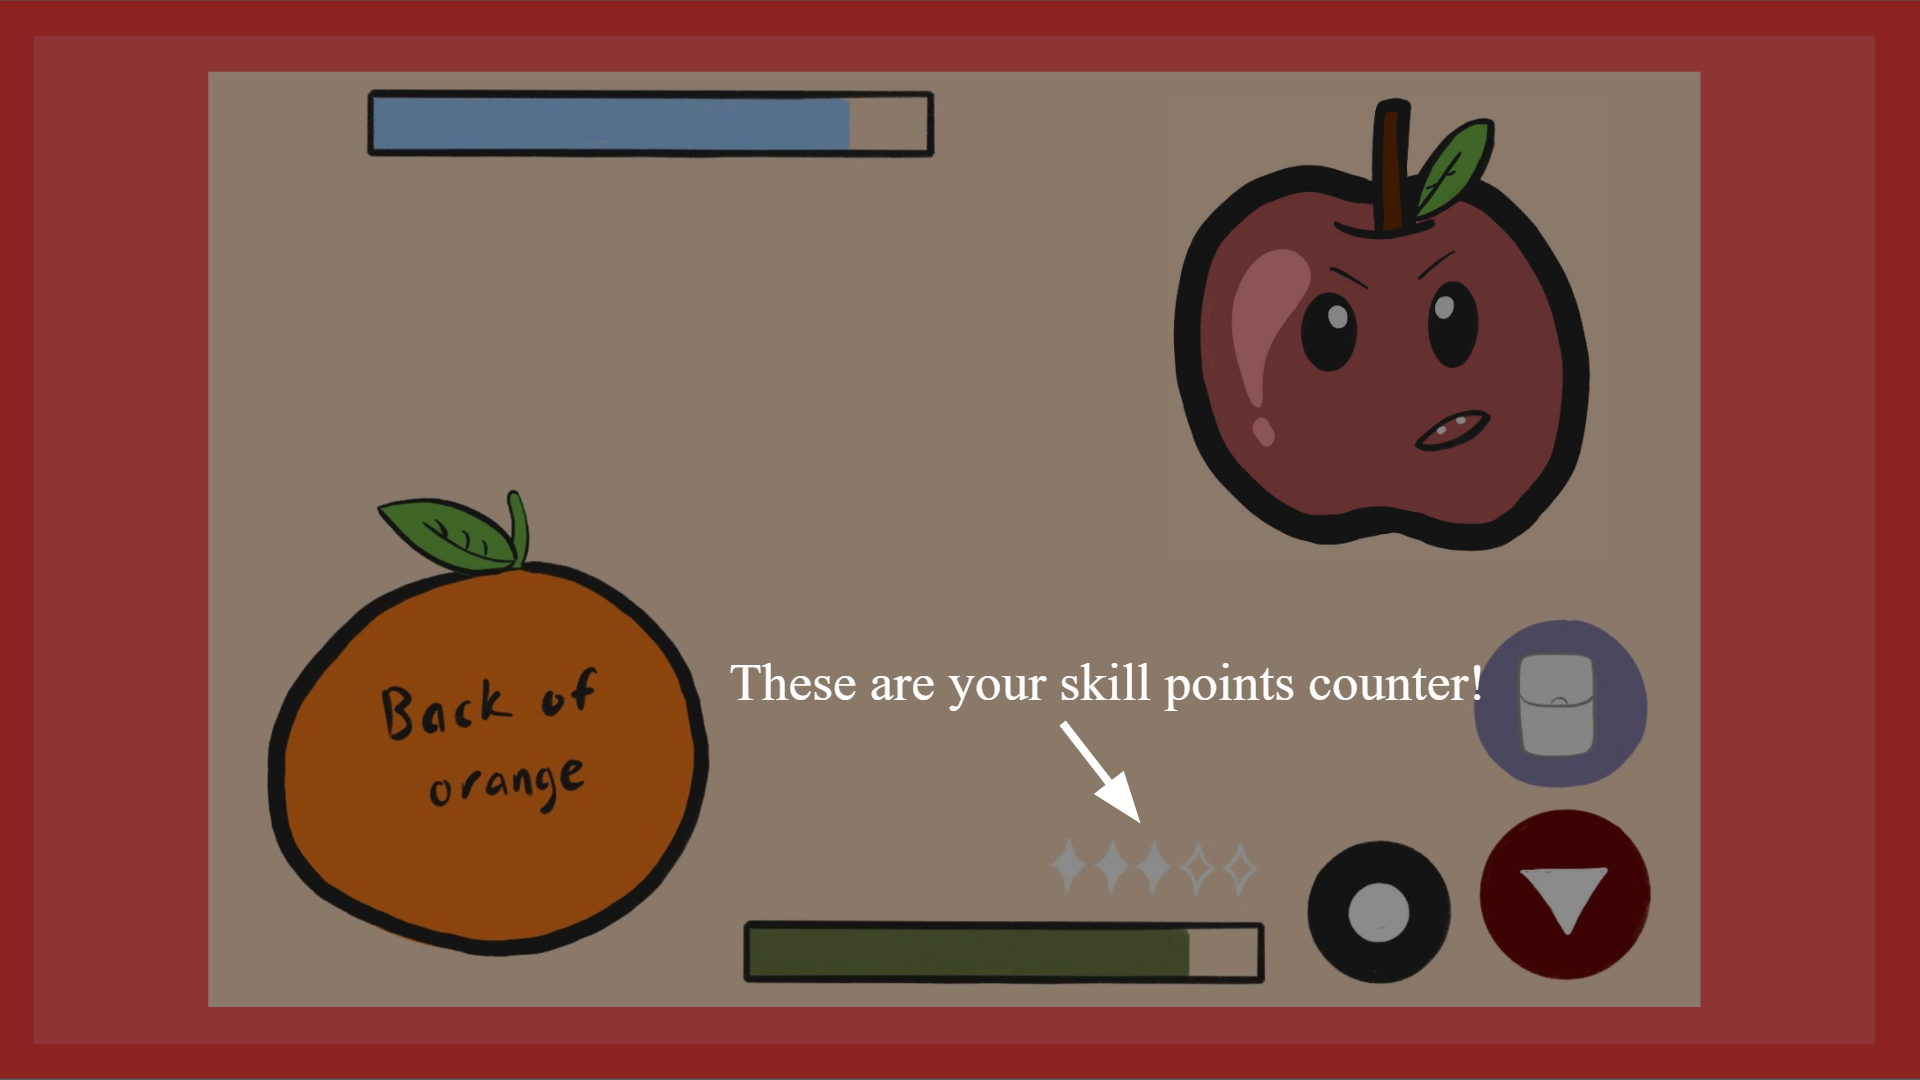
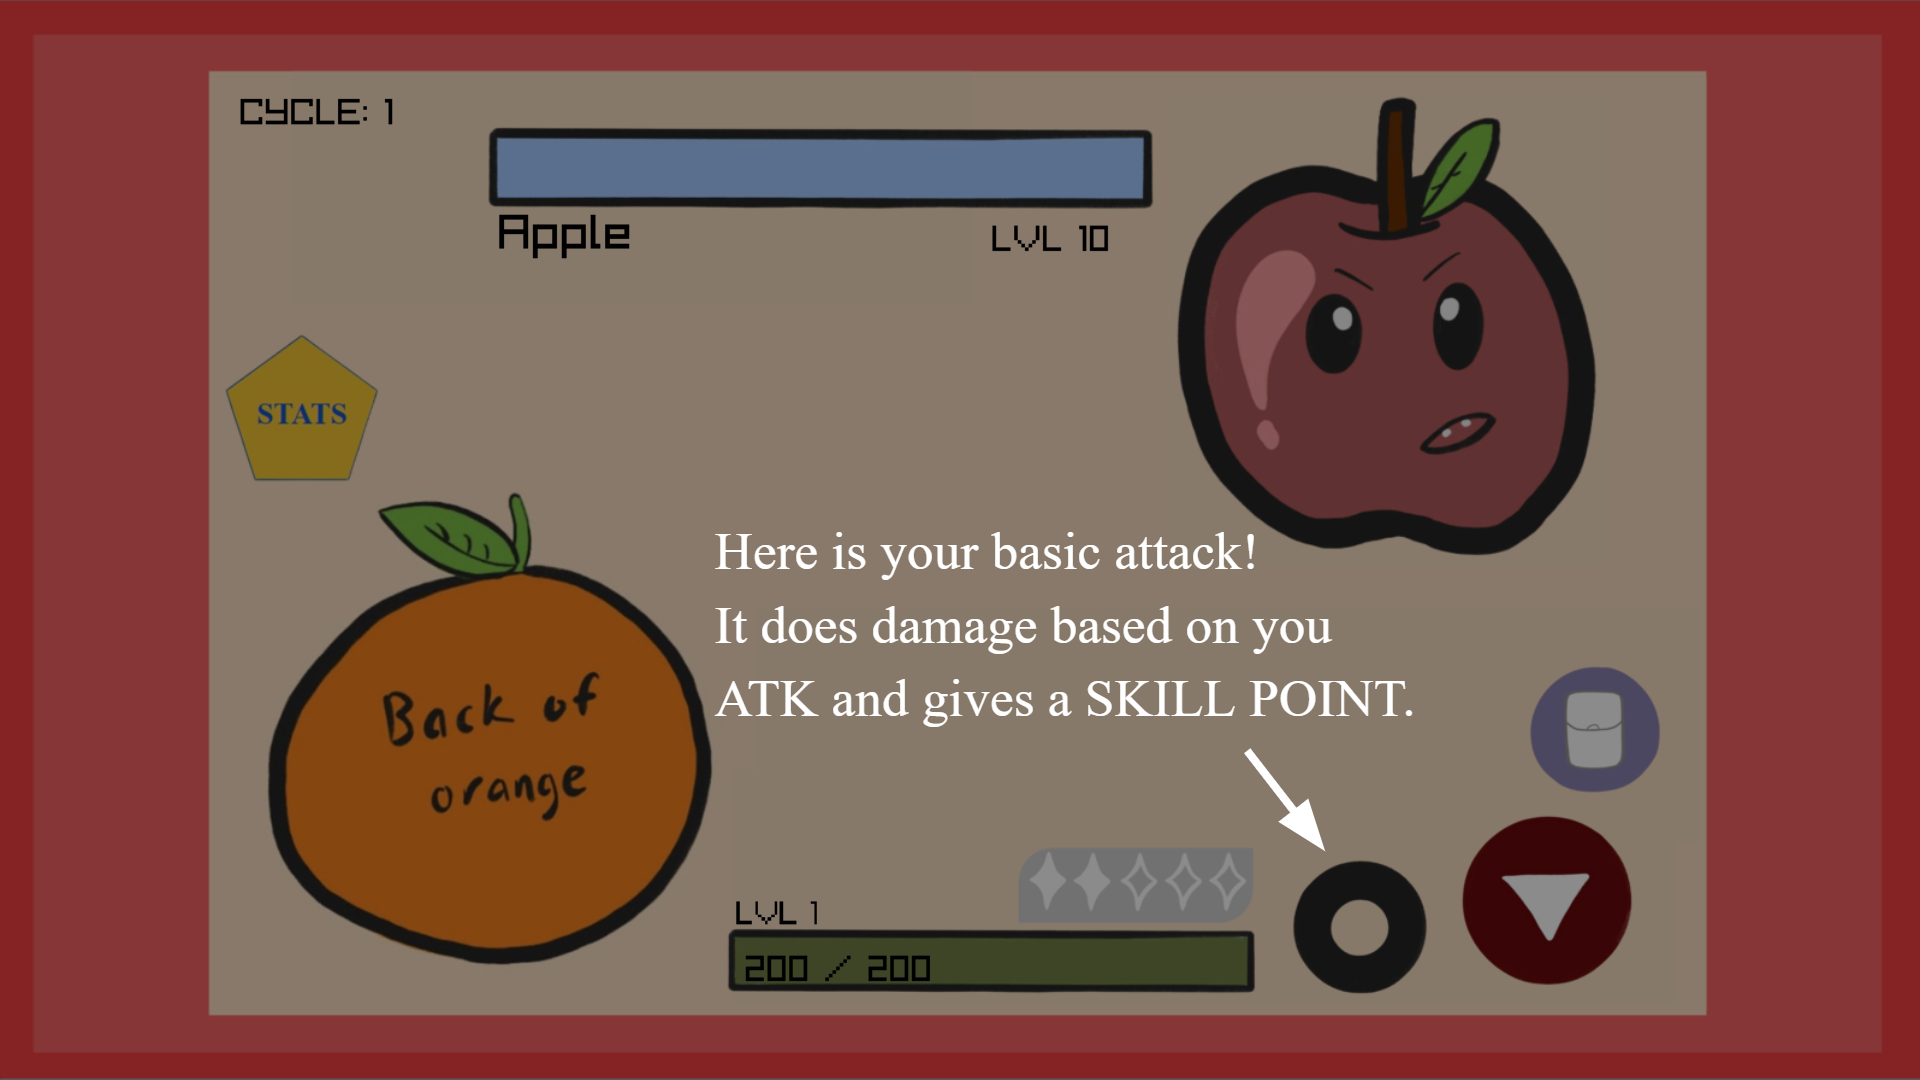
new tutorial

diff --git a/src/TutorialScreen.cpp b/src/TutorialScreen.cpp
@@ -40,15 +40,9 @@ TutorialScreen::TutorialScreen(ScreenManager& mgr, bool& exitFlag)
             case 9:
                 backgroundImage = LoadImage("Graphics/TutorialScreens/TutorialScreen10.png");
                 break;
-            case 10:
-                backgroundImage = LoadImage("Graphics/TutorialScreens/TutorialScreen11.png");
-                break;
-            case 11:
-                backgroundImage = LoadImage("Graphics/TutorialScreens/TutorialScreen12.png");
-                break;
-            case 12:
-                backgroundImage = LoadImage("Graphics/TutorialScreens/TutorialScreen13.png");
-                break;
+            default:
+                cerr << "Error: TutorialScreen class, switch case";
+                exit(1);
     }
 
     ImageResize(&backgroundImage, 1600, 900);
@@ -67,7 +61,7 @@ TutorialScreen::~TutorialScreen() {
 
 void TutorialScreen::Update(const Vector2& mousePos, bool mouseClicked) {
     if (IsKeyPressed(KEY_SPACE)) {
-        if (manager.GetTutorialCount() == 12) {
+        if (manager.GetTutorialCount() == 9) {
             // signals that it's time to move on to gameLoop
             manager.setInput(1);
         } else {
